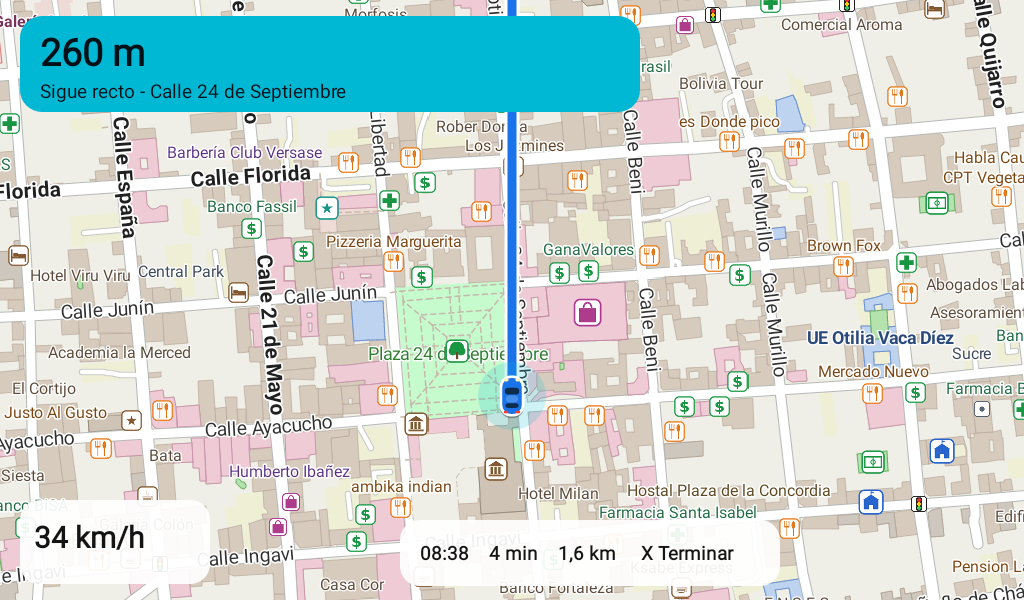
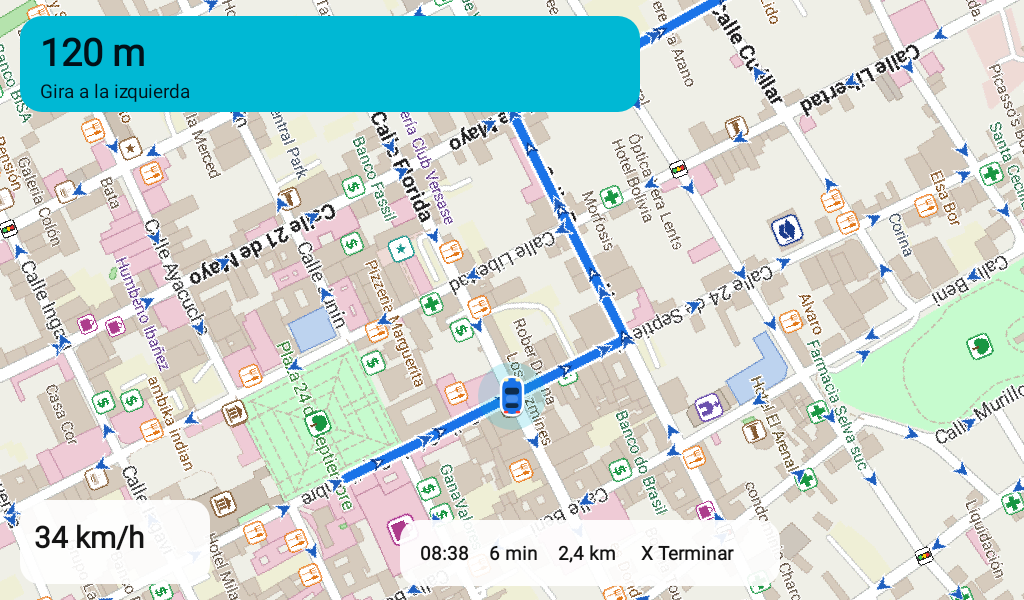
Mapa: flechas de sentido sobre la ruta, flechas de calles mas visibles, recalculo mas rapido (1.0.9)

diff --git a/launcher/app/src/main/java/org/opencar/launcher/MapActivity.kt b/launcher/app/src/main/java/org/opencar/launcher/MapActivity.kt
@@ -130,6 +130,7 @@ class MapActivity : Activity(), LocationListener {
     private var casing: Polyline? = null
     private var routeLine: Polyline? = null
     private var posLayer: PosLayer? = null
+    private var rutaFlechas: RutaFlechas? = null
     private var destLayer: DestLayer? = null
 
     // interfaz
@@ -346,6 +347,7 @@ class MapActivity : Activity(), LocationListener {
         routeLine = Polyline(paint(if (night) 0xFF00B8D4.toInt() else 0xFF1A73E8.toInt(), 9f), gf)
         mv.layerManager.layers.add(casing)
         mv.layerManager.layers.add(routeLine)
+        rutaFlechas = RutaFlechas().also { mv.layerManager.layers.add(it) }
         try {
             val sn = Sentido(MapData.mapFile(this)); sentido = sn
             mv.layerManager.layers.add(sn.FlechasLayer(sc))
@@ -744,7 +746,7 @@ class MapActivity : Activity(), LocationListener {
     private fun showRoute(r: OpenCarRouter.Result, autoStart: Boolean) {
         route = r; lastIdx = 0; offCount = 0; spoken.clear()
         val pts = r.lats.indices.map { LatLong(r.lats[it], r.lons[it]) }
-        casing?.setPoints(pts); routeLine?.setPoints(pts)
+        casing?.setPoints(pts); routeLine?.setPoints(pts); rutaFlechas?.set(r.lats, r.lons)
         destLayer?.set(destLat, destLon)
         val mv = mapView ?: return
         mv.layerManager.redrawLayers()
@@ -763,7 +765,7 @@ class MapActivity : Activity(), LocationListener {
 
     private fun clearRoute() {
         route = null; navigating = false
-        casing?.setPoints(emptyList()); routeLine?.setPoints(emptyList()); destLayer?.set(Double.NaN, Double.NaN)
+        casing?.setPoints(emptyList()); routeLine?.setPoints(emptyList()); rutaFlechas?.set(null, null); destLayer?.set(Double.NaN, Double.NaN)
         previewCard?.visibility = View.GONE; navBanner?.visibility = View.GONE; navBottom?.visibility = View.GONE
         topUi?.visibility = View.VISIBLE; fabCol?.visibility = View.VISIBLE
         setNavView(false)
@@ -899,7 +901,7 @@ class MapActivity : Activity(), LocationListener {
             if (d < bd) { bd = d; best = i; along = r.cum[i] + t * (r.cum[i + 1] - r.cum[i]) }
         }
         if (bd < 60) { lastIdx = best; offCount = 0 } else offCount++
-        if (offCount >= 5 && !rerouting) { rerouting = true; VozClips.play(this, "recalc"); offCount = 0
+        if (offCount >= 3 && !rerouting) { rerouting = true; VozClips.play(this, "recalc"); offCount = 0
             val dn = destName; val dl = destLat; val dlo = destLon
             Thread {
                 val rr = OpenCarRouter.route(MapData.segDir(this), MapData.profile(this).absolutePath, myLat, myLon, dl, dlo, 60000L)
@@ -1024,6 +1026,45 @@ class MapActivity : Activity(), LocationListener {
             val pt = Paint(Paint.ANTI_ALIAS_FLAG)
             pt.color = (acc and 0x00FFFFFF) or 0x30000000; c.drawCircle(x, y, 34f * sc, pt)
             CarIcon.draw(c, x, y, bearing, sc, acc, 0.72f)
+        }
+    }
+
+    /** Flechas blancas sobre la ruta: muestran el sentido en que debes recorrerla. */
+    inner class RutaFlechas : Layer() {
+        private var la: DoubleArray? = null; private var lo: DoubleArray? = null
+        private val fill = Paint(Paint.ANTI_ALIAS_FLAG).apply { color = Color.WHITE; style = Paint.Style.FILL }
+        private val edge = Paint(Paint.ANTI_ALIAS_FLAG).apply { color = 0xFF0B3A8A.toInt(); style = Paint.Style.STROKE; strokeWidth = 1.5f * sc }
+        fun set(a: DoubleArray?, o: DoubleArray?) { la = a; lo = o; requestRedraw() }
+        override fun draw(bb: BoundingBox, z: Byte, canvas: org.mapsforge.core.graphics.Canvas, tl: Point) {
+            val a = la ?: return; val o = lo ?: return
+            if (a.size < 2 || z < 14) return
+            val ms = MercatorProjection.getMapSize(z, displayModel.tileSize)
+            val c = AndroidGraphicFactory.getCanvas(canvas)
+            val step = 70f * sc; val s = 5.2f * sc
+            var acc = step / 2
+            var px = (MercatorProjection.longitudeToPixelX(o[0], ms) - tl.x).toFloat(); var py = (MercatorProjection.latitudeToPixelY(a[0], ms) - tl.y).toFloat()
+            for (i in 1 until a.size) {
+                val x = (MercatorProjection.longitudeToPixelX(o[i], ms) - tl.x).toFloat(); val y = (MercatorProjection.latitudeToPixelY(a[i], ms) - tl.y).toFloat()
+                val len = hypot(x - px, y - py)
+                if (len >= 1f) {
+                    val ux = (x - px) / len; val uy = (y - py) / len
+                    var d = acc
+                    while (d < len) {
+                        val cx = px + ux * d; val cy = py + uy * d
+                        if (cx > -20 && cy > -20 && cx < c.width + 20 && cy < c.height + 20) {
+                            val p = Path()
+                            p.moveTo(cx + ux * s * 1.2f, cy + uy * s * 1.2f)
+                            p.lineTo(cx - ux * s * 0.8f - uy * s, cy - uy * s * 0.8f + ux * s)
+                            p.lineTo(cx - ux * s * 0.2f, cy - uy * s * 0.2f)
+                            p.lineTo(cx - ux * s * 0.8f + uy * s, cy - uy * s * 0.8f - ux * s)
+                            p.close(); c.drawPath(p, fill); c.drawPath(p, edge)
+                        }
+                        d += step
+                    }
+                    acc = d - len
+                }
+                px = x; py = y
+            }
         }
     }
 

diff --git a/launcher/app/src/main/java/org/opencar/launcher/Sentido.kt b/launcher/app/src/main/java/org/opencar/launcher/Sentido.kt
@@ -95,7 +95,7 @@ class Sentido(file: File) {
             if ((x1 - x0 + 1) * (y1 - y0 + 1) > 36) return
             val ms = MercatorProjection.getMapSize(zoom, displayModel.tileSize)
             val c = AndroidGraphicFactory.getCanvas(canvas)
-            val step = 120f * sc; val sz = 5.5f * sc
+            val step = 100f * sc; val sz = 7f * sc
             for (tx in x0..x1) for (ty in y0..y1) for (s in tileSegs(tx, ty)) {
                 if (s.dir == 0) continue
                 var acc = step / 2

diff --git a/README.md b/README.md
@@ -31,7 +31,7 @@ Modo noche (tema propio, calles claras sobre fondo oscuro):
 
 ![Mapa de noche](docs/screenshots/mapa-noche.png)
 
-Navegación (maqueta con el motor real del mapa; el auto apunta hacia donde avanzas y el mapa gira para que siempre veas hacia adelante):
+Navegación (ruta real calculada por el enrutador de la app sobre el mapa sin internet; el auto apunta hacia donde avanzas, el mapa gira para que siempre veas hacia adelante, las flechas blancas marcan el sentido de la ruta y las azules las calles de un solo sentido; el banner y los paneles son una maqueta):
 
 | Día | Noche |
 |---|---|
